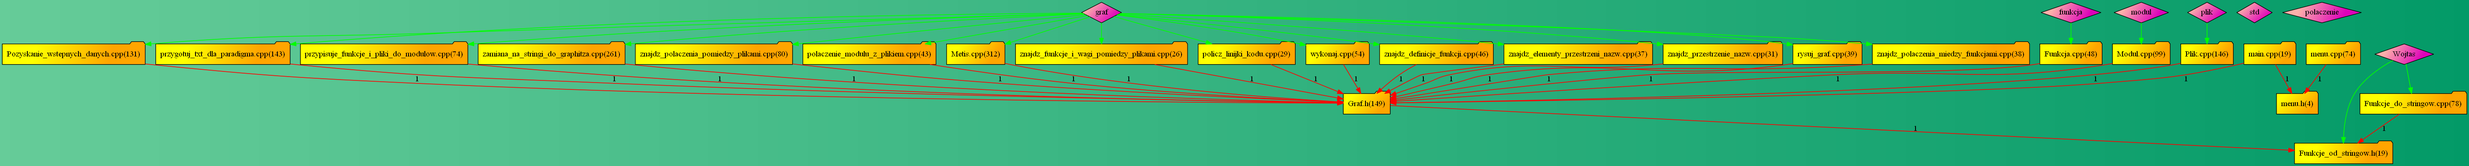
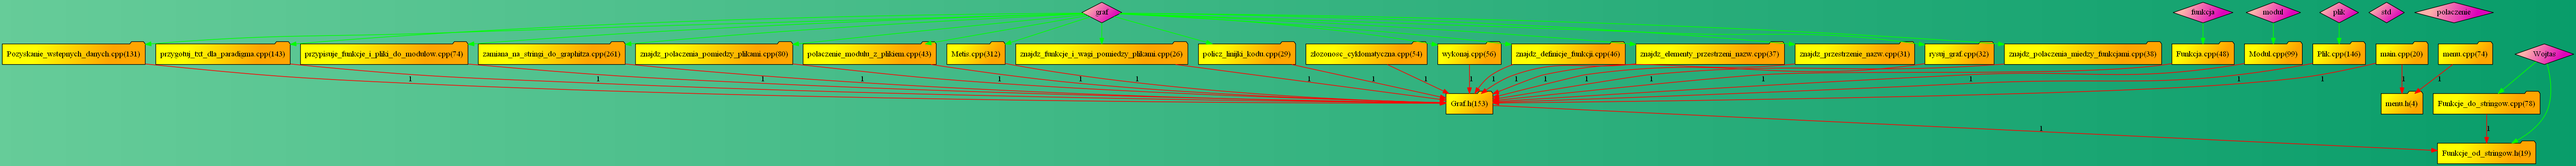
Signed-off-by: pazindor <xxpazindorxx@gmial.com>

diff --git a/Projekt/Wicher/zlozonosc_cyklomatyczna.cpp b/Projekt/Wicher/zlozonosc_cyklomatyczna.cpp
@@ -1,0 +1,53 @@
+#pragma once
+#include"../Graf.h"
+
+
+void graf::Graf::zlozonosc_cyklomatyczna()
+{
+	// funkcje nalepiej jednak by bylo dodac do clasy Graf tak po przemysleniu sytuacji XD
+	//oraz dodac do struct Funkcja 	nalezy dodac `int zlozonosc = 1;` bez ciapek
+	//funckja po kolei sprawdza plik i kazde slowo po czym jesli znajdzie slowo
+	//zwiekszajace zlozonosc cyklomatyczna to zwieksza zmienna
+
+	//ogolnie o zlozonosci:
+	// 0-10 kod prosty niewielkie ryzyko
+	//11-20 kod zlozony powodujacy duze ryzyko
+	//21-50	kod bardzo zlozony zwiazany z wysokim ryzykiem
+	//50 i wyzej pamietacie nasz program sprzez refactoringu ??? :D
+
+int const rozmiar_tablicy = 2;
+
+std::fstream otwarty_plik;
+std::string linia;
+
+std::string slowa_klucze[rozmiar_tablicy] = { "if", "case" };	//slowa ktore powoduja wieksza ilosc "sciezek"
+
+for (int plik = 0; plik < pliki.size(); plik++)	//iteruje po kolei dla kazdego pliku
+{
+	otwarty_plik.open(pliki[plik].nazwa_pliku, std::ios::in);
+
+	while (getline(otwarty_plik, linia))
+	{
+		std::vector<std::string> slowa_w_linii = Wojtas::dzielenie_na_slowa(linia);	//dzieli linie na slowa
+
+		for (int nr_slowa = 0; nr_slowa < slowa_w_linii.size(); nr_slowa++)			//szuka slow kluczy
+		{
+			for (int ktora_funkcja = 0; ktora_funkcja < wszystkie_funkcje_we_wszystkich_plikach.size(); ktora_funkcja++)	//sprawdzana jest kazda funkcja
+			{
+				if (slowa_w_linii[nr_slowa] == wszystkie_funkcje_we_wszystkich_plikach[ktora_funkcja].nazwa_funkcji)
+				{
+					if (slowa_w_linii[nr_slowa] == slowa_klucze[1] || slowa_w_linii[nr_slowa] == slowa_klucze[2])
+					{
+						wszystkie_funkcje_we_wszystkich_plikach[ktora_funkcja].zlozonosc++;
+						cout << wszystkie_funkcje_we_wszystkich_plikach[ktora_funkcja].nazwa_funkcji << " -> " << wszystkie_funkcje_we_wszystkich_plikach[ktora_funkcja].zlozonosc << endl;
+					}
+					cout << wszystkie_funkcje_we_wszystkich_plikach[ktora_funkcja].nazwa_funkcji << " -> " << wszystkie_funkcje_we_wszystkich_plikach[ktora_funkcja].zlozonosc << endl;
+				}
+				//cout << wszystkie_funkcje_we_wszystkich_plikach[ktora_funkcja].nazwa_funkcji << " -> " << wszystkie_funkcje_we_wszystkich_plikach[ktora_funkcja].zlozonosc << endl;
+			}
+		}
+	}
+	otwarty_plik.close();
+}
+}
+

diff --git a/Projekt/Wojtas/wykonaj.cpp b/Projekt/Wojtas/wykonaj.cpp
@@ -10,6 +10,8 @@ void graf::Graf::wykonaj() {
 	znajdz_definicje_funkcji();
 	znajdz_funkcje_i_wagi_pomiedzy_plikami();
 	znajdz_polaczenia_miedzy_funkcjami();
+	zlozonosc_cyklomatyczna();
+
 
 	znajdz_przestrzenie_nazw();
 	znajdz_elementy_przestrzeni_nazw();
